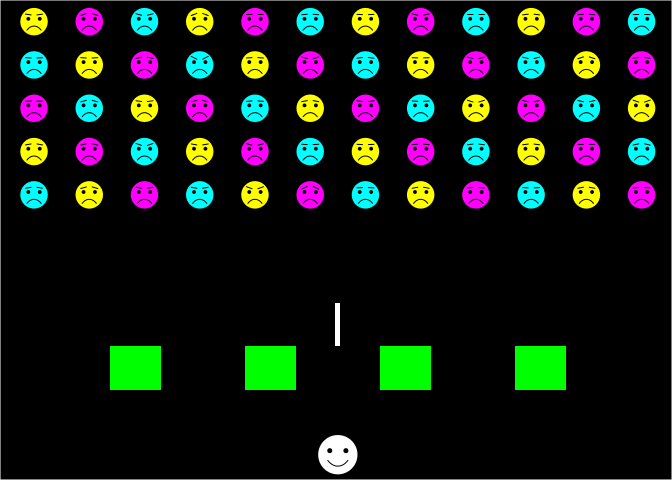
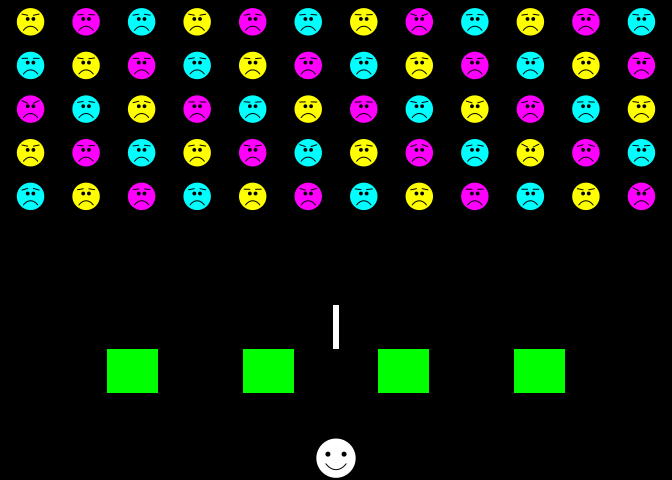
Implement eye separation aesthetic

diff --git a/README.md b/README.md
@@ -1,18 +1,32 @@
 
 <!-- README.md is generated from README.Rmd. Please edit that file -->
-Draw Chernoff faces in ggplot2
-==============================
 
-[![Build Status](https://travis-ci.org/Selbosh/ggChernoff.svg?branch=master)](https://travis-ci.org/Selbosh/ggChernoff) [![AppVeyor Build Status](https://ci.appveyor.com/api/projects/status/github/Selbosh/ggChernoff?branch=master&svg=true)](https://ci.appveyor.com/project/Selbosh/ggChernoff) [![CRAN\_Status\_Badge](http://www.r-pkg.org/badges/version/ggChernoff)](https://cran.r-project.org/package=ggChernoff)
+# Draw Chernoff faces in ggplot2
 
-This silly package, `ggChernoff`, introduces a `geom_chernoff` geom for [`ggplot2`](http://ggplot2.org). This works a bit like [`geom_point`](http://docs.ggplot2.org/current/geom_point.html), but draws little smiley faces (emoticons) instead of dots.
+[![Build
+Status](https://travis-ci.org/Selbosh/ggChernoff.svg?branch=master)](https://travis-ci.org/Selbosh/ggChernoff)
+[![AppVeyor Build
+Status](https://ci.appveyor.com/api/projects/status/github/Selbosh/ggChernoff?branch=master&svg=true)](https://ci.appveyor.com/project/Selbosh/ggChernoff)
+[![CRAN\_Status\_Badge](http://www.r-pkg.org/badges/version/ggChernoff)](https://cran.r-project.org/package=ggChernoff)
 
-The Chernoff geom has some unique aesthetics, including `smile`, which makes your faces smile or frown according to the relative magnitude of your continuous variable. By default, the mean value will generate a straight face :expressionless: while higher values will make smiles :blush: and lower values will draw frowns :cry:. You can customise this using `scale_smile`. If `smile` is unmapped to a variable, all faces will be happy by default.
+This silly package, `ggChernoff`, introduces a `geom_chernoff` geom for
+[`ggplot2`](http://ggplot2.org). This works a bit like
+[`geom_point`](http://docs.ggplot2.org/current/geom_point.html), but
+draws little smiley faces (emoticons) instead of dots.
 
-Eyebrows are hidden by default, but you can activate them by mapping something to the `brow` aesthetic. High values make your faces angry :angry: and low values the opposite :anguished:.
+The Chernoff geom has some unique aesthetics, including `smile`, which
+makes your faces smile or frown according to the relative magnitude of
+your continuous variable. By default, the mean value will generate a
+straight face :expressionless: while higher values will make smiles
+:blush: and lower values will draw frowns :cry:. You can customise this
+using `scale_smile`. If `smile` is unmapped to a variable, all faces
+will be happy by default.
 
-Getting started
----------------
+Eyebrows are hidden by default, but you can activate them by mapping
+something to the `brow` aesthetic. High values make your faces angry
+:angry: and low values the opposite :anguished:.
+
+## Getting started
 
 Install the package using
 
@@ -26,10 +40,10 @@ and then load it using
 library(ggChernoff)
 ```
 
-Examples
---------
+## Examples
 
-Firstly, let's create a scatter plot of smiley faces out of Fisher's iris data set, each one coloured according to species.
+Firstly, let’s create a scatter plot of smiley faces out of Fisher’s
+iris data set, each one coloured according to species.
 
 ``` r
 library(ggplot2)
@@ -38,9 +52,10 @@ ggplot(iris) +
   geom_chernoff()
 ```
 
-![](README-iris-1.png)
+![](README-iris-1.png)<!-- -->
 
-Here is an example using Immer's barley data. We are happy about larger yields!
+Here is an example using Immer’s barley data. We are happy about larger
+yields\!
 
 ``` r
 ggplot(lattice::barley) +
@@ -50,9 +65,10 @@ ggplot(lattice::barley) +
   facet_wrap(~ site)
 ```
 
-![](README-barley-1.png)
+![](README-barley-1.png)<!-- -->
 
-Basic legends are now supported. We can customise breaks and titles in the usual `ggplot2` way, via `scale_smile_continuous`.
+Basic legends are now supported. We can customise breaks and titles in
+the usual `ggplot2` way, via `scale_smile_continuous`.
 
 ``` r
 g <- ggplot(data.frame(x = rnorm(20), y = rexp(20), z = runif(20))) +
@@ -61,24 +77,36 @@ g <- ggplot(data.frame(x = rnorm(20), y = rexp(20), z = runif(20))) +
 g
 ```
 
-![](README-legends-1.png)
+![](README-legends-1.png)<!-- -->
 
 ``` r
 g + scale_smile_continuous('Smilez', breaks = 0:10/10, midpoint = .5)
 ```
 
-![](README-legends-2.png)
+![](README-legends-2.png)<!-- -->
 
-You can also use this command to adjust the range of possible happiness/sadness in your plot. In the following example, everybody is somewhere between sad and straight-faced.
+You can also use this command to adjust the range of possible
+happiness/sadness in your plot. In the following example, everybody is
+somewhere between sad and straight-faced.
 
 ``` r
 g + scale_smile_continuous(range = c(-1, 0))
 ```
 
-![](README-range-1.png)
+![](README-range-1.png)<!-- -->
 
-Space invaders! :alien:
------------------------
+**New feature as of 0.3.0**: eye separation.
+
+``` r
+ggplot(iris) +
+  aes(Petal.Width, Petal.Length, fill = Species, eyes = Sepal.Length) +
+  geom_chernoff() +
+  scale_eyes_continuous(range = c(0, 2))
+```
+
+![](README-eyes-1.png)<!-- -->
+
+## Space invaders\! :alien:
 
 ``` r
 cannon <- data.frame(x = 0, y = 0, colour = 'white', size = 20)
@@ -91,7 +119,7 @@ ufos <- data.frame(x = rep(seq(-6, 6, length.out = 12), 5),
                    brow = rnorm(60))
 ggplot(ufos) +
   aes(x, y, fill = colour, size = size) +
-  geom_chernoff(smile = -1, aes(brow = brow)) +
+  geom_chernoff(smile = -1, aes(brow = brow), eyes = .5) +
   geom_chernoff(data = cannon) +
   geom_tile(data = bunkers, width = 1) +
   geom_tile(data = data.frame(x = 0, y = 3, colour = 'white', size = 2), width = .1) +
@@ -100,13 +128,17 @@ ggplot(ufos) +
   theme_void() +
   theme(plot.background = element_rect(fill = 'black'),
         legend.position = 'none')
+#> Warning: Using `size` aesthetic for lines was deprecated in ggplot2 3.4.0.
+#> ℹ Please use `linewidth` instead.
 ```
 
-![](README-spaceinvaders-1.png)
+![](README-spaceinvaders-1.png)<!-- -->
 
-References
-----------
+## References
 
-Hermann Chernoff (1973). The use of faces to represent points in *k*-dimensional space graphically. *Journal of the American Statistical Association, 68*(342), 361–368.
+Hermann Chernoff (1973). The use of faces to represent points in
+*k*-dimensional space graphically. *Journal of the American Statistical
+Association, 68*(342), 361–368.
 
-Leland Wilkinson (2006). *The Grammar of Graphics* (2nd edition). Springer.
+Leland Wilkinson (2006). *The Grammar of Graphics* (2nd edition).
+Springer.

diff --git a/NEWS.md b/NEWS.md
@@ -1,3 +1,11 @@
+# ggChernoff 0.3.0
+
+* Added an `eyes` aesthetic to control the distance between eyes.
+
+# ggChernoff 0.2.0
+
+* Initial submission to CRAN.
+
 # ggChernoff 0.1.2.9001
 
 * Added a `NEWS.md` file to track changes to the package.
